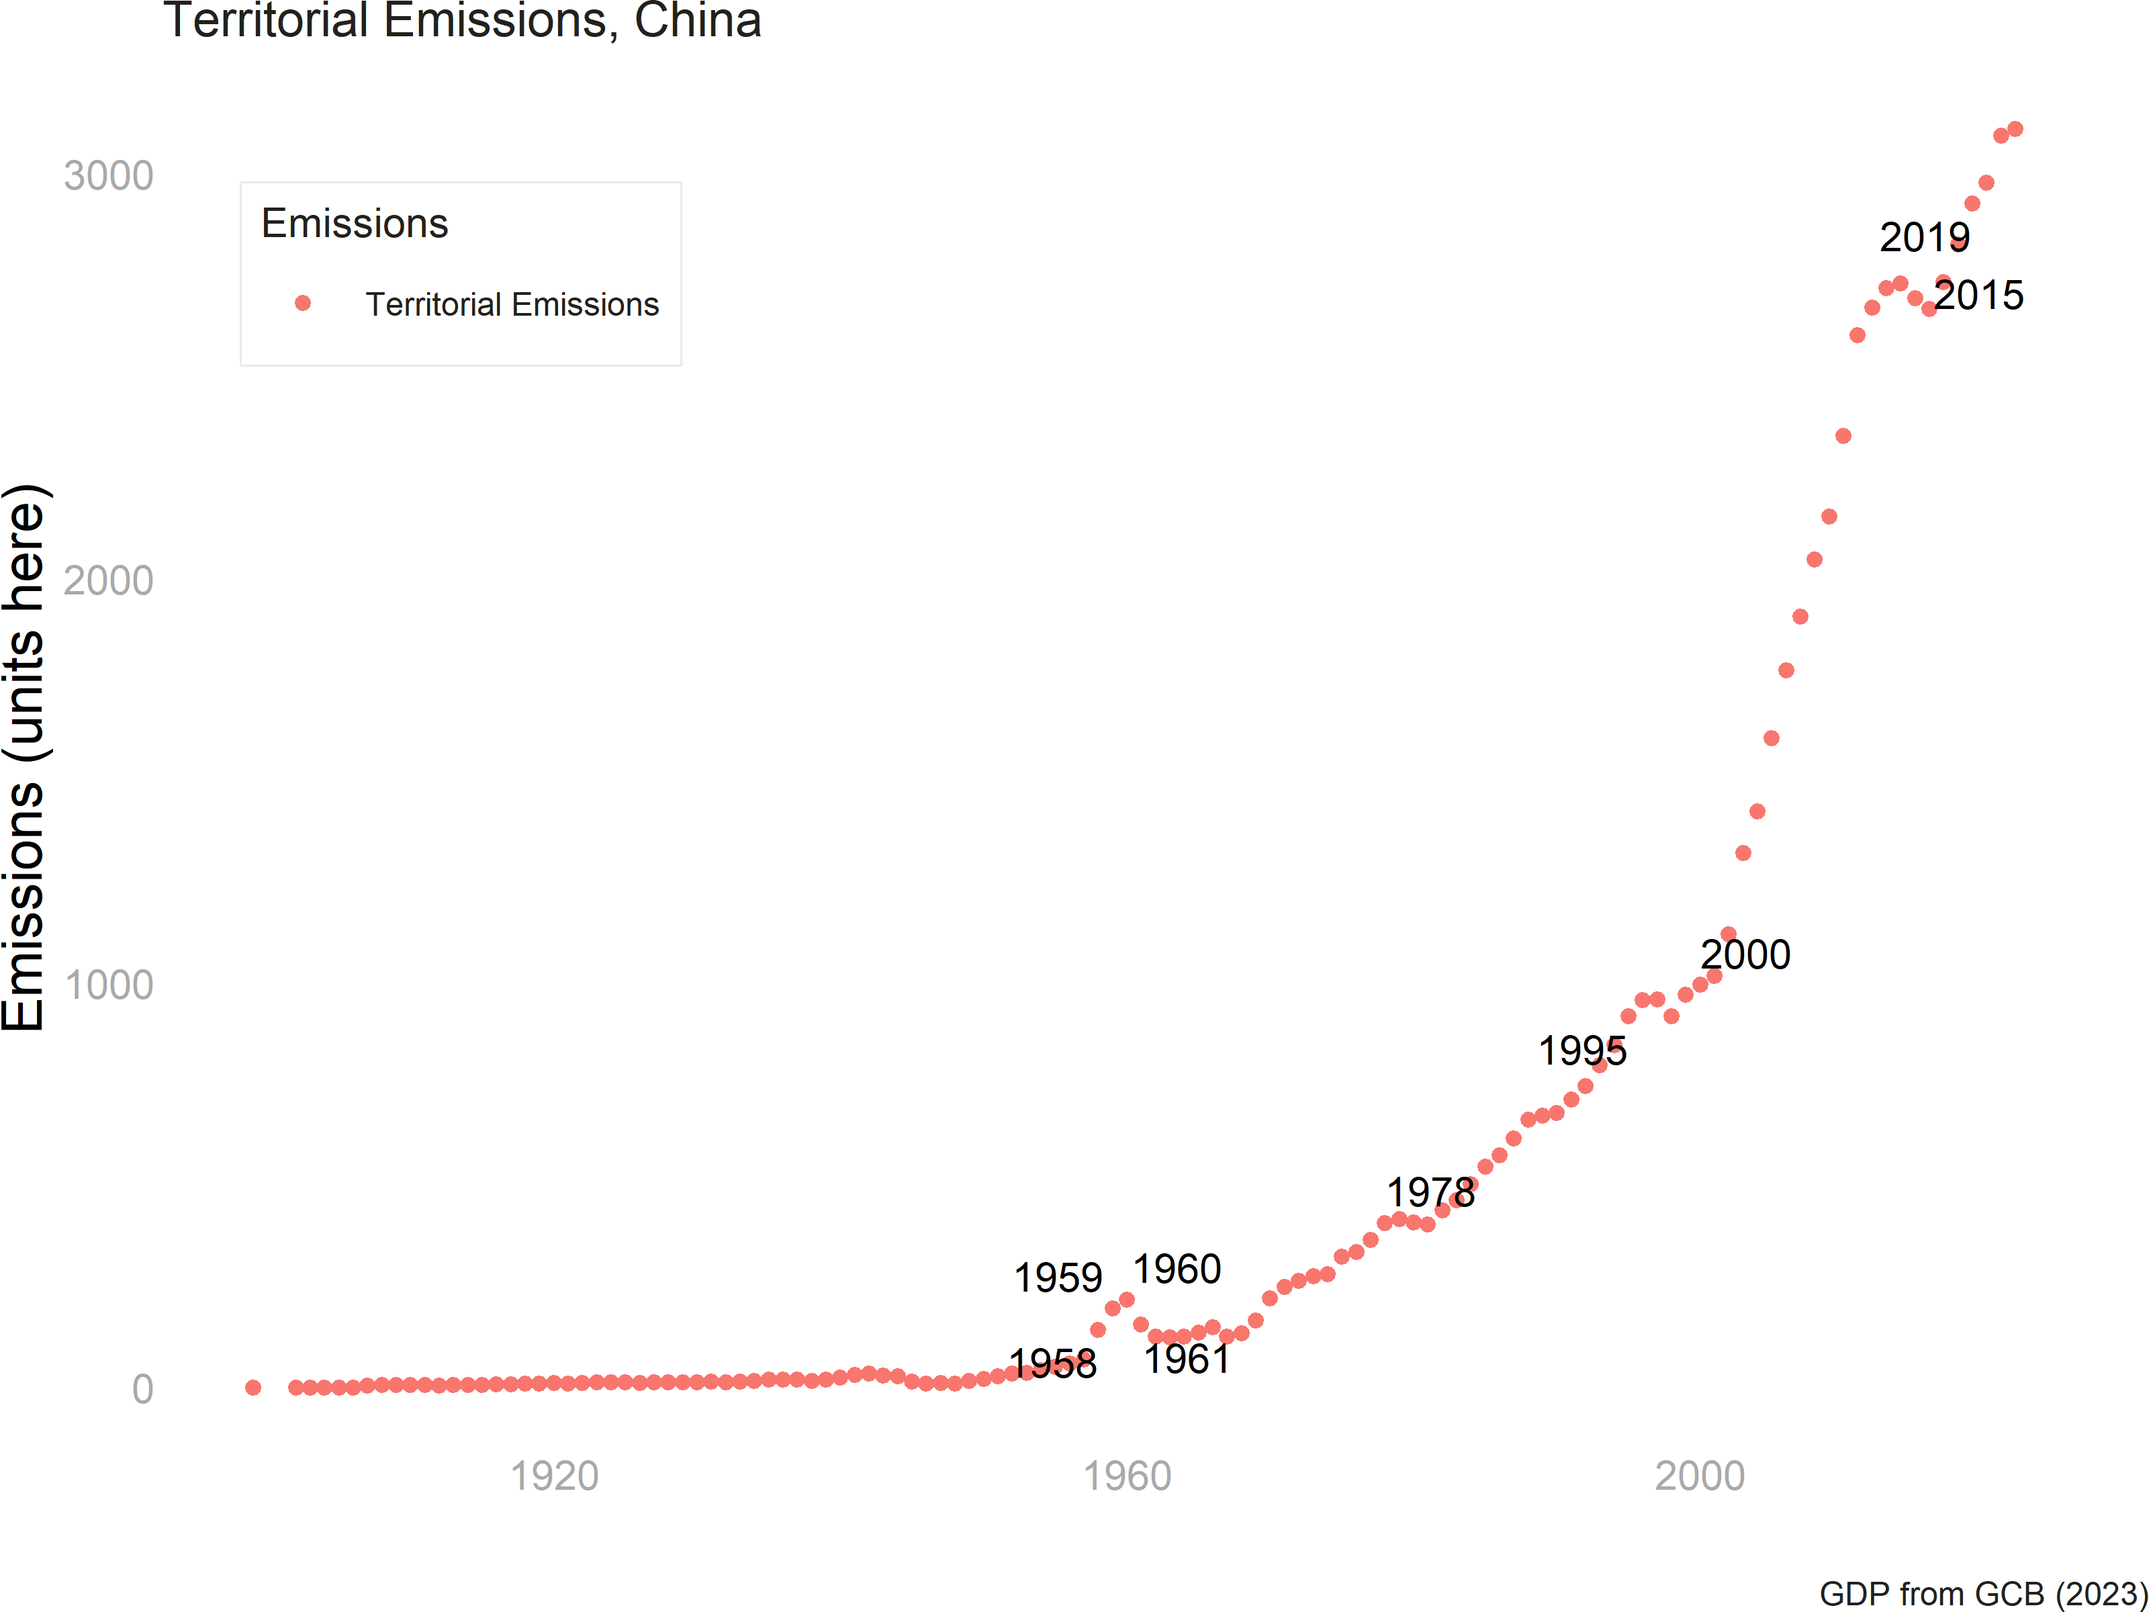
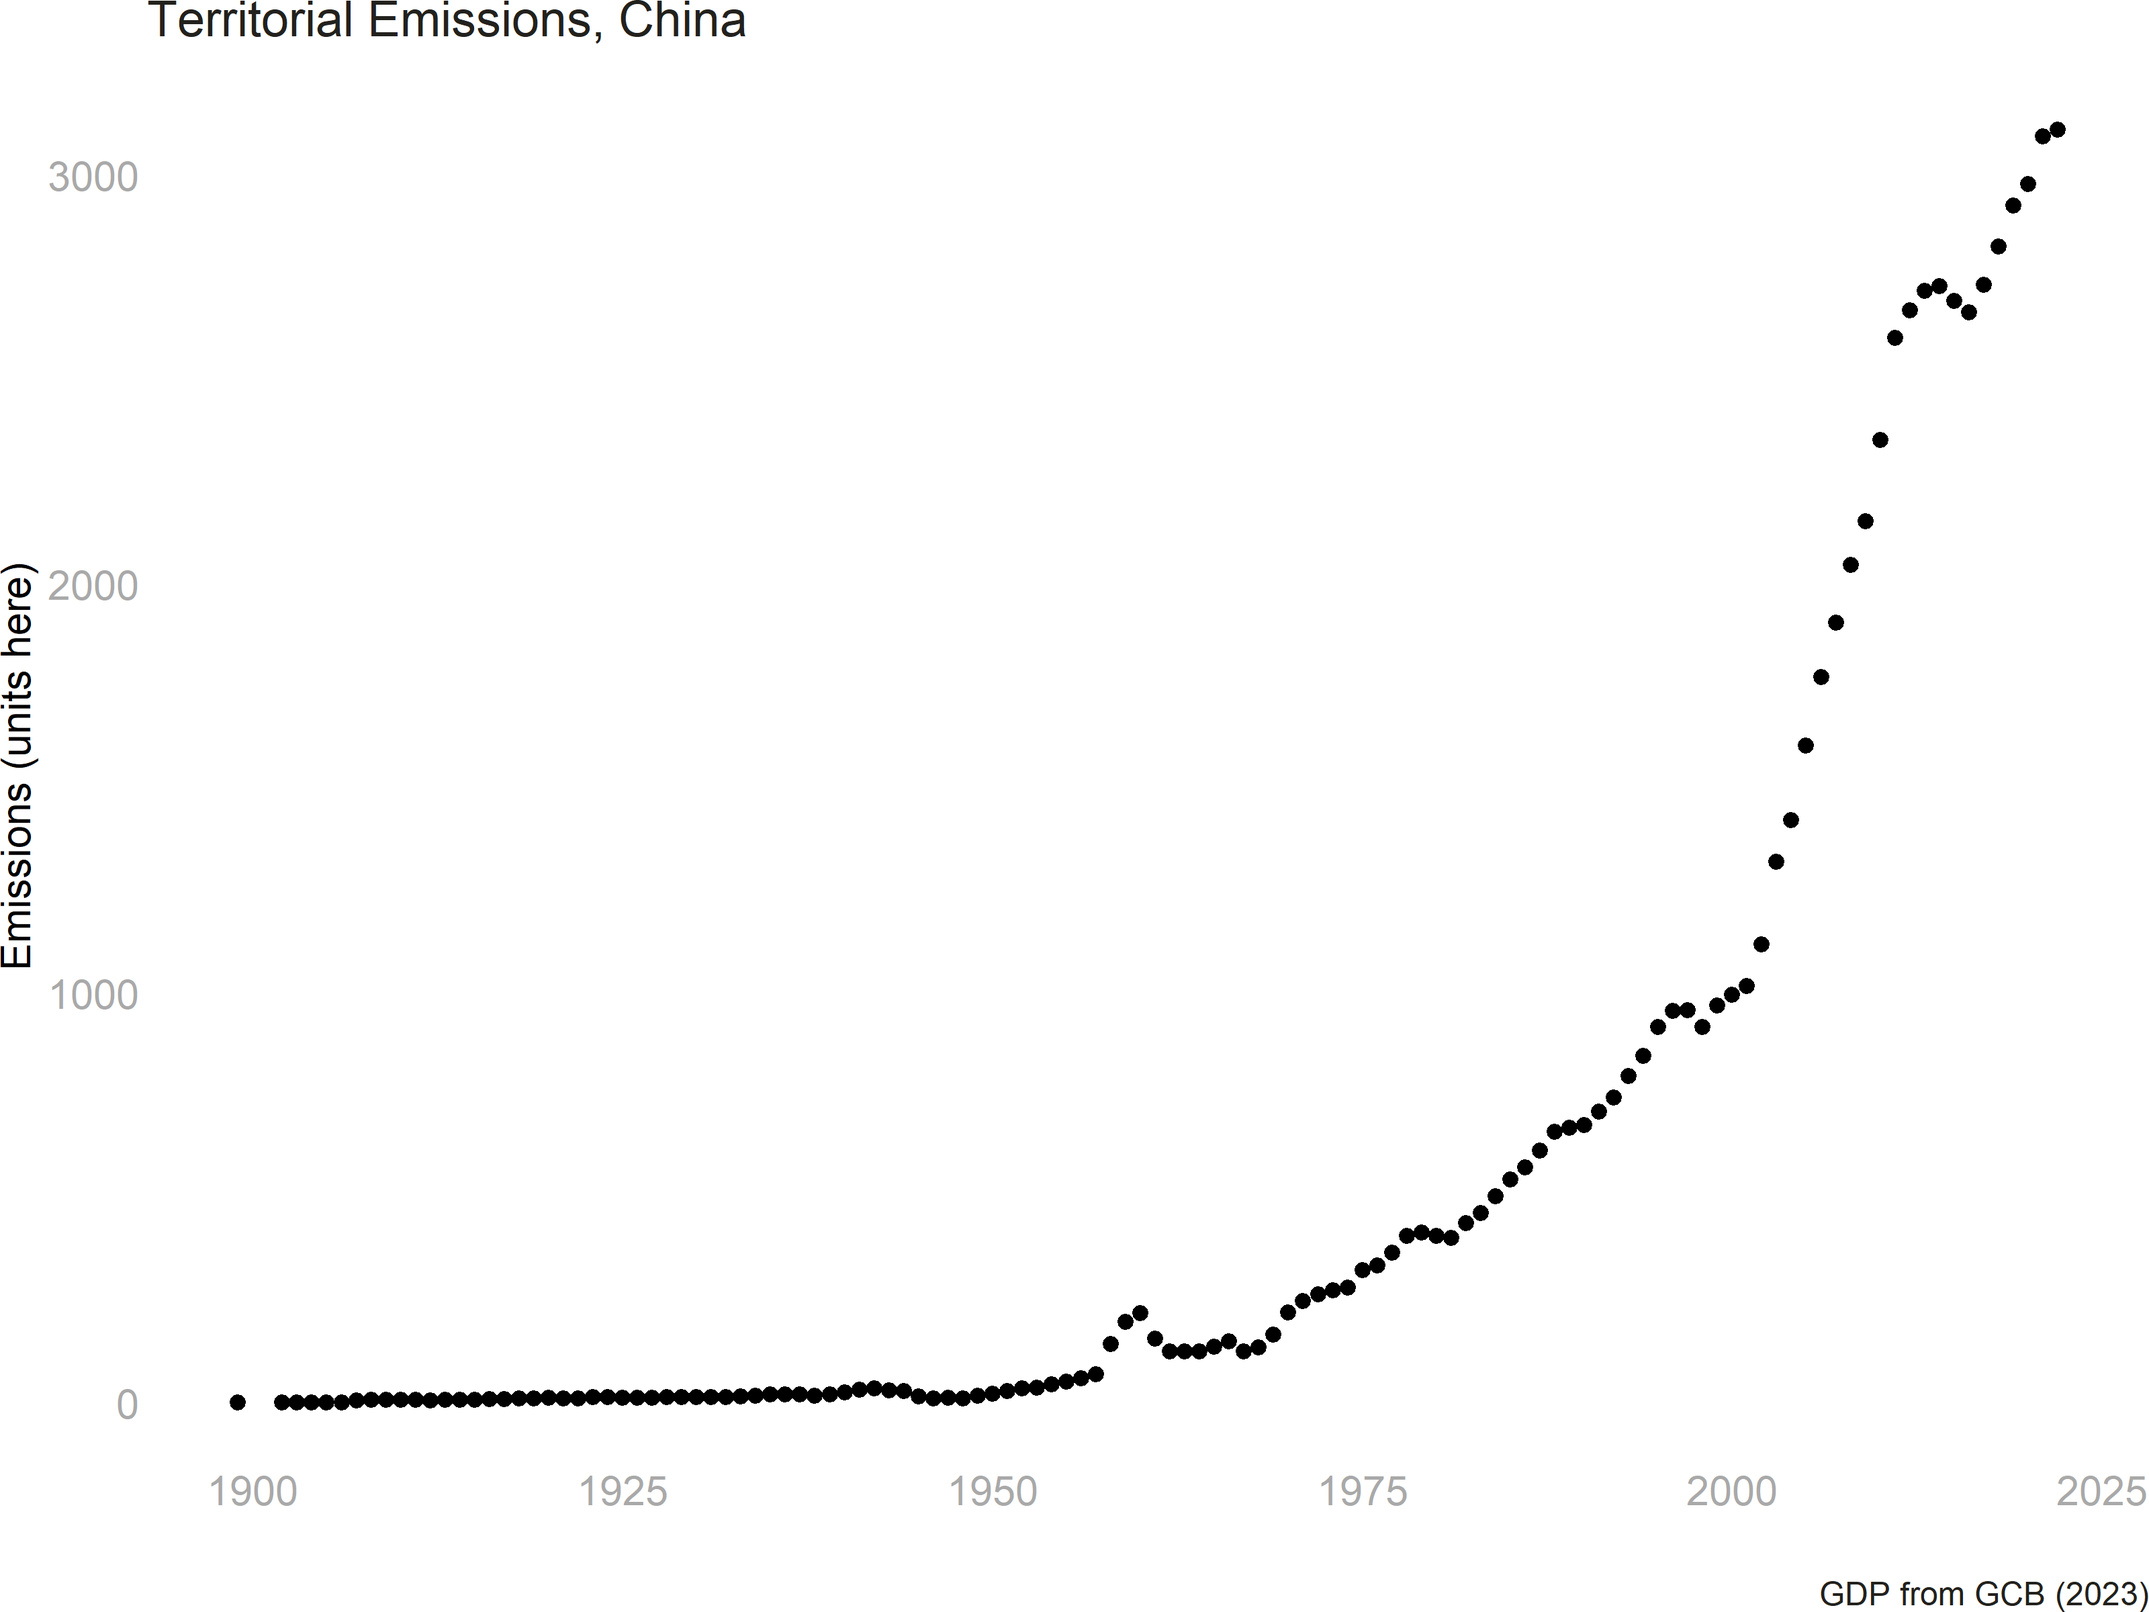
Simplified basic plotting vignette

diff --git a/vignettes/basic-plotting.md b/vignettes/basic-plotting.md
@@ -69,8 +69,8 @@ In your RStudio console, input the following:
 ``` r
 View(gcb_clean)
 names(gcb_clean)
-#> [1] "year"                "country_name"        "gcb_ghg_territorial"
-#> [4] "iso3c"               "gcb_ghg_consumption" "gcb_ghg_transfers"
+#> [1] "year"                "country_name"        "gcb_ghg_territorial" "iso3c"               "gcb_ghg_consumption"
+#> [6] "gcb_ghg_transfers"
 ```
 
 *Comprehension check:* What is `names(gcb_clean)` giving us for output? What class is this object? (Hint: `class(names(gcb_clean))`.) What is the class of `gcb_clean`?
@@ -80,17 +80,14 @@ Let's see what years we have available (Note: Not all years will be available fo
 
 ``` r
 unique(gcb_clean$year)
-#>   [1] 1850 1851 1852 1853 1854 1855 1856 1857 1858 1859 1860 1861 1862 1863 1864 1865
-#>  [17] 1866 1867 1868 1869 1870 1871 1872 1873 1874 1875 1876 1877 1878 1879 1880 1881
-#>  [33] 1882 1883 1884 1885 1886 1887 1888 1889 1890 1891 1892 1893 1894 1895 1896 1897
-#>  [49] 1898 1899 1900 1901 1902 1903 1904 1905 1906 1907 1908 1909 1910 1911 1912 1913
-#>  [65] 1914 1915 1916 1917 1918 1919 1920 1921 1922 1923 1924 1925 1926 1927 1928 1929
-#>  [81] 1930 1931 1932 1933 1934 1935 1936 1937 1938 1939 1940 1941 1942 1943 1944 1945
-#>  [97] 1946 1947 1948 1949 1950 1951 1952 1953 1954 1955 1956 1957 1958 1959 1960 1961
-#> [113] 1962 1963 1964 1965 1966 1967 1968 1969 1970 1971 1972 1973 1974 1975 1976 1977
-#> [129] 1978 1979 1980 1981 1982 1983 1984 1985 1986 1987 1988 1989 1990 1991 1992 1993
-#> [145] 1994 1995 1996 1997 1998 1999 2000 2001 2002 2003 2004 2005 2006 2007 2008 2009
-#> [161] 2010 2011 2012 2013 2014 2015 2016 2017 2018 2019 2020 2021 2022
+#>   [1] 1850 1851 1852 1853 1854 1855 1856 1857 1858 1859 1860 1861 1862 1863 1864 1865 1866 1867 1868 1869 1870 1871
+#>  [23] 1872 1873 1874 1875 1876 1877 1878 1879 1880 1881 1882 1883 1884 1885 1886 1887 1888 1889 1890 1891 1892 1893
+#>  [45] 1894 1895 1896 1897 1898 1899 1900 1901 1902 1903 1904 1905 1906 1907 1908 1909 1910 1911 1912 1913 1914 1915
+#>  [67] 1916 1917 1918 1919 1920 1921 1922 1923 1924 1925 1926 1927 1928 1929 1930 1931 1932 1933 1934 1935 1936 1937
+#>  [89] 1938 1939 1940 1941 1942 1943 1944 1945 1946 1947 1948 1949 1950 1951 1952 1953 1954 1955 1956 1957 1958 1959
+#> [111] 1960 1961 1962 1963 1964 1965 1966 1967 1968 1969 1970 1971 1972 1973 1974 1975 1976 1977 1978 1979 1980 1981
+#> [133] 1982 1983 1984 1985 1986 1987 1988 1989 1990 1991 1992 1993 1994 1995 1996 1997 1998 1999 2000 2001 2002 2003
+#> [155] 2004 2005 2006 2007 2008 2009 2010 2011 2012 2013 2014 2015 2016 2017 2018 2019 2020 2021 2022
 ```
 
 
@@ -223,7 +220,7 @@ In this case the order of what goes into the pipes won't matter. But in other ca
 
 *Comprehension check:* Create a new dataframe called `data_country2` that's exactly the same as `data_country` but uses a slightly different way of writing the command to get there from `gcb_clean`.
 
-# Plotting with ggplo2
+# Plotting with ggplot2
 
 Now let's get to plotting. The package `ggplot2` is a versatile plotting package that allows you to use a similar syntax for plotting all sorts of figures, from bar charts to complicated maps. 
 
@@ -231,49 +228,95 @@ There's a [whole ggplot2 book](https://ggplot2-book.org/) that you can use to ge
 
 We're also going to use the package `ggrepel` to put labels on the graph. The way `ggplot2` typically works is that we start with the data (here, `data_country`), and then we add visual components in layers with each new call to something of the form `geom_xxx`. 
 
-For the purpose of our labels, we're going to select just a few years to label:
+Now let's build up our plot. The skeleton of it is the following:
 
 
 ``` r
-years_to_show <- c(1958,1959,1960,1961,1978,1995,2000,2015,2019)
+my_plot <- ggplot2::ggplot() + 
+  ggplot2::geom_point(data = data_country,
+                      ggplot2::aes(x = year, 
+                                   y =gcb_ghg_territorial)
+                      )
+my_plot
 ```
 
-Now let's generate a plot:
+![plot of chunk unnamed-chunk-28](figure/unnamed-chunk-28-1.png)
+
+`ggplot2::ggplot()` just opens up a new, blank plot for us. Try putting just this in your console and see what happens.
+
+Under this, we add (with the plus sign) the following: `ggplot2::geom_point()`, which calls a scatter plot. The scatter plot uses the data from `data_country`, and sets as the x axis its variable `year` and its y axis the variable `gcb_ghg_territorial`.
+
+We can make this a little neater. Let's change the axis labels and add both a caption to cite our data and a title.
+
 
 
 ``` r
-my_plot <- ggplot2::ggplot(data = data_country,
-               ggplot2::aes(x = year)) +
-  ggplot2::geom_point(ggplot2::aes(y =gcb_ghg_territorial, color = "Territorial Emissions")) +
-  ggrepel::geom_text_repel(data = base::subset(data_country,year %in%years_to_show), 
-                           ggplot2::aes(y = gcb_ghg_territorial,
-                                    label = year),
-                           max.overlaps = 17)+ # a lower number will give fewer total labels; higher will put more labels in
+my_plot <- ggplot2::ggplot() + 
+  ggplot2::geom_point(data = data_country,
+                      ggplot2::aes(x = year, 
+                                   y =gcb_ghg_territorial)
+                      ) +
   ggplot2::labs(title = paste0("Territorial Emissions, ",chosen_country_name),
        caption = c("GDP from GCB (2023)"),
        x ="" ,
        y = "Emissions (units here)",
        color = "Emissions" # sets legend name
-  )+
-  theme_minimal_plot(#title_size = 20,
-             axis_title_x = ggplot2::element_text(color = "black",size = 15),
-             axis_title_y = ggplot2::element_text(color = "black", size = 15),
-             legend.key = ggplot2::element_rect(fill = "white", # box fill for the legend
-                                       colour = "white" # box outlines for the legend
-             ),
-             legend_position = c(.15,.85) # sets legend position, from [0,1] on X axis then [0,1] on y
-  ) +
-  ggplot2::scale_x_continuous(limits = c(1899,2025))
+  )
+my_plot
 ```
 
+![plot of chunk unnamed-chunk-29](figure/unnamed-chunk-29-1.png)
 
-You can see the plot in your console by typing `my_plot` in the console.
+Better! But the grid lines are a little odd and why is the background grey? `ggplot2` has a bunch of themes. A nice one is `theme_minimal()`, which you can add on:
 
-![plot of chunk unnamed-chunk-13](https://github.com/stallman-j/ekonomR/blob/main/output/02_figures/gcb_territorial_emissions_China.png?raw=true)
+``` r
+my_plot <- ggplot2::ggplot() + 
+  ggplot2::geom_point(data = data_country,
+                      ggplot2::aes(x = year, 
+                                   y =gcb_ghg_territorial)
+                      ) +
+  ggplot2::labs(title = paste0("Territorial Emissions, ",chosen_country_name),
+       caption = c("GDP from GCB (2023)"),
+       x ="" ,
+       y = "Emissions (units here)",
+       color = "Emissions" # sets legend name
+  ) + 
+  ggplot2::theme_minimal()
 
-You should play around with commenting out lines using a `#` at the beginning of the line to see what changes, and changing text around to see what changes in the plot itself.
+my_plot
+```
 
-Now let's save the map, with a function from `ekonomR` that uses the ggplot2's `ggsave` with some simple defaults.
+![plot of chunk unnamed-chunk-30](figure/unnamed-chunk-30-1.png)
+There are some settings I end up coming back to, which is why `ekonomR` has a function that adds a little bit onto `ggplot2`'s minimal theme. That's why it's called `theme_minimal_plot()`. It explicitly lists a few of the options I end up calling often, but if you just want a nice, black-and-white plot that is pretty simple to change the labels on, just tack it on like so:
+
+
+``` r
+my_plot <- ggplot2::ggplot() + 
+  ggplot2::geom_point(data = data_country,
+                      ggplot2::aes(x = year, 
+                                   y =gcb_ghg_territorial)
+                      ) +
+  ggplot2::labs(title = paste0("Territorial Emissions, ",chosen_country_name),
+       caption = c("GDP from GCB (2023)"),
+       x ="" ,
+       y = "Emissions (units here)",
+       color = "Emissions" # sets legend name
+  ) + 
+  ekonomR::theme_minimal_plot()
+
+my_plot
+```
+
+![plot of chunk unnamed-chunk-31](figure/unnamed-chunk-31-1.png)
+This is nice and crisp. You can see more options I often end up changing with `?theme_minimal_plot`
+
+
+You can see the final plot in your console by typing `my_plot` in the console.
+
+![plot of chunk unnamed-chunk-32](https://github.com/stallman-j/ekonomR/blob/main/output/02_figures/gcb_territorial_emissions_China.png?raw=true)
+
+
+Now let's save the plot, with a function from `ekonomR` that similarly to the small adaptation I made to `theme_minimal()` slightly adapts ggplot2's `ggsave` with some useful defaults.
 
 
 
@@ -288,16 +331,19 @@ ggsave_plot(output_folder = here::here("output","02_figures"),
 
 The `here::here()` function is amazing: it cleverly looks for where it thinks your home project folder is, and then defines directories relative to this folder. If you've got this code running in an R Project (which you should), then it will set "here" to be that project folder.
 
+We defined `chosen_country_name` way up at the top, and it's also coming in down here with the `paste0` function, which is also a very useful function. This means that if we went up to the top and changed *just* `chosen_country` and `chosen_country_name`, we could run through all this code without changing anything else, and get a plot for Chile or Kenya or the United States.
+
+*Comprehension Check:* What is `paste0` doing in the above code block? Plug `paste0("gcb_territorial_emissions_",chosen_country_name,".png")` into your console and see what gets outputted.
+
 # Exercises
 
-For a country which is  *not* China, plot its greenhouse gas *consumption* (not territorial!) emissions over time with the following changes:
+For a country which is  *not* China, plot its greenhouse gas *consumption* (not territorial!) emissions over time with the following changes to your final product.
 
 - Edit the y axis labels to contain the appropriate units. They currently say `Emissions (units here)`.
     -*Hint:* You may want to poke around in the [GCB](https://globalcarbonbudget.org/) page to figure out what the units should be.
     
-- Turn the legend off by using `legend_position = "none"` in the correct place in your version of the code chunk above. It's a little redundant to have a legend if you just plot one thing.
 - Correct the caption to contain the correct data attribution. It should be something like "Emissions data from GCB (2023)."
-- Change the title to reflect that you're now plotting emissions from consumption. You should also make sure that the country you're listing in the title is the country that you show data for.
+- Change the title to reflect that you're now plotting emissions from consumption. You should also make sure that the country you're listing in the title is the country that you show data for (note that we soft-coded that!).
 
 - Think about what you see from these trends relative to what you know about the history of the country.
 
@@ -311,7 +357,7 @@ For a country which is  *not* China, plot its greenhouse gas *consumption* (not 
   - If there are biases in the data, what direction do you think they would take?
 
 
-# The Next Vignette in this Series
+# Up Next: Intermediate Plotting
 
 See the next vignette on [Intermediate Plotting](https://stallman-j.github.io/ekonomR/vignettes/intermediate-plotting/) for more plotting examples including layered plots and finer-tuned settings.
 
@@ -359,29 +405,20 @@ years_to_show <- c(1958,1959,1960,1961,1978,1995,2000,2015,2019)
 
 # Plotting
 
-my_plot <- ggplot2::ggplot(data = data_country,
-               ggplot2::aes(x = year)) +
-  ggplot2::geom_point(ggplot2::aes(y =gcb_ghg_territorial, color = "Territorial Emissions")) +
-  ggrepel::geom_text_repel(data = base::subset(data_country,year %in%years_to_show), # pick out just these years
-                  ggplot2::aes(y = gcb_ghg_territorial,
-                      label = year),
-                  max.overlaps = 17)+ # a lower number will give fewer total labels; higher will put more labels in
+my_plot <- ggplot2::ggplot() + 
+  ggplot2::geom_point(data = data_country,
+                      ggplot2::aes(x = year, 
+                                   y =gcb_ghg_territorial)
+                      ) +
   ggplot2::labs(title = paste0("Territorial Emissions, ",chosen_country_name),
        caption = c("GDP from GCB (2023)"),
        x ="" ,
        y = "Emissions (units here)",
        color = "Emissions" # sets legend name
-  )+
-  theme_minimal_plot(#title_size = 20,
-             axis_title_x = ggplot2::element_text(color = "black",size = 15),
-             axis_title_y = ggplot2::element_text(color = "black", size = 15),
-             legend.key = ggplot2::element_rect(fill = "white", # box fill for the legend
-                                       colour = "white" # box outlines for the legend
-             ),
-             legend_position = c(.15,.85) # sets legend position, from [0,1] on X axis then [0,1] on y
-  ) +
-  #ggplot2::scale_y_continuous(trans = "log10", limits = c(400,100000)) + # why doesn't this work? hint: log(0) = -inf
-  ggplot2::scale_x_continuous(limits = c(1899,2025))
+  ) + 
+  ekonomR::theme_minimal_plot()
+
+my_plot
 
 ggsave_plot(output_folder = here::here("output","02_figures"),
          plotname = my_plot,
